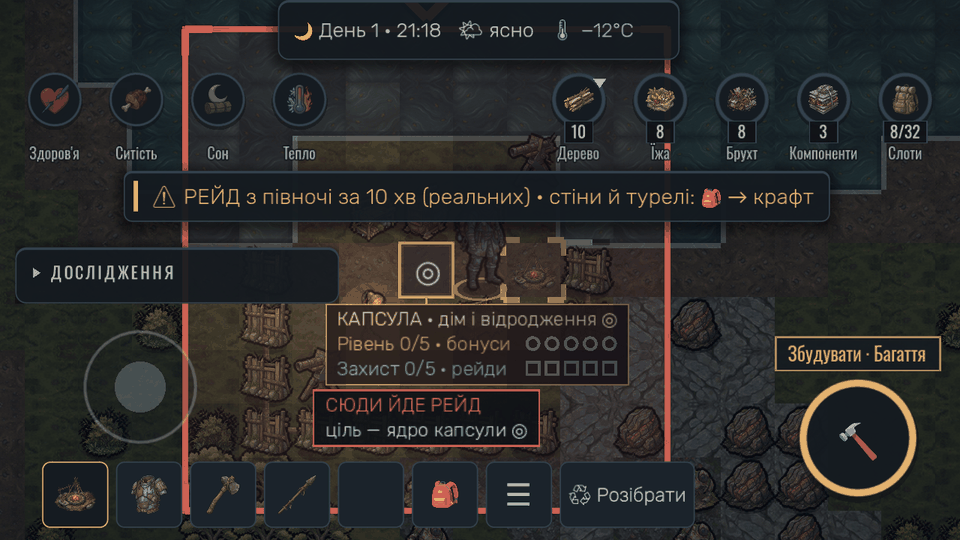
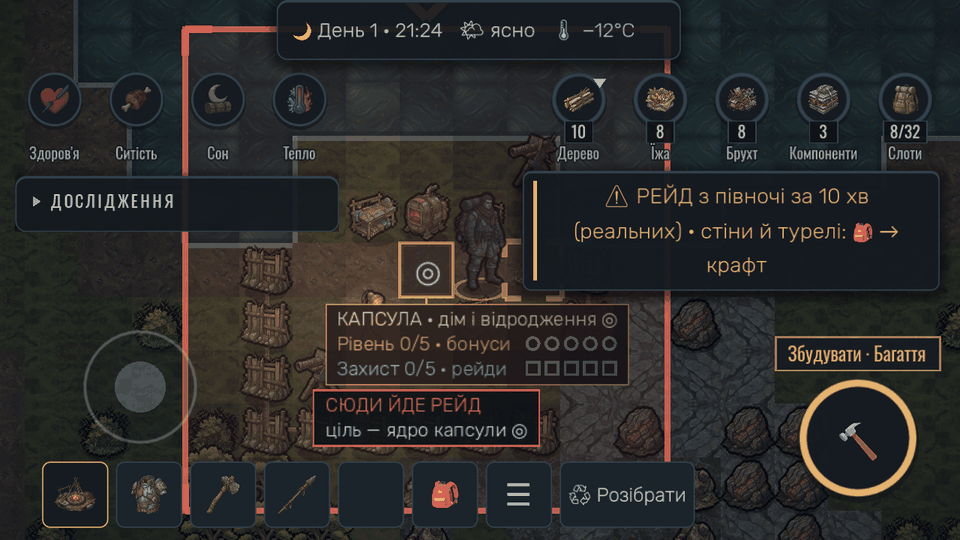
fix(ui): банер рейду на телефоні — у правій половині (не закриває героя), чіткіші підказки торби й удару; журнал G3 цикл 4
Claude-Session: https://claude.ai/code/session_01Xo1GdRrkAhvwBNsagnHsWq

diff --git a/docs/process/playtests/2026-11-18-g3-capsule.md b/docs/process/playtests/2026-11-18-g3-capsule.md
@@ -36,3 +36,19 @@
 - Банер рейду закриває ліву частину лічильників ресурсів (саме коли треба оцінити матеріали).
 - «Машина поруч»: порада «постав стіну», коли робот уже ламає стіну; не сказано, що робота можна бити.
 - Екран смерті: «мітка на мапі» не видна на самому екрані; текст довгий.
+
+## Цикл 4 (2026-11-19) — правки невирішеного, кадри `docs/ux/g3-2026-11-19/{before,after}`
+Кадри знято локально тим самим набором, що й CI (`shot touch scale=1.7 realtime …`).
+- «10 хв» — уже було «реального часу»; текст попередження скорочено до «⚠ РЕЙД з півночі за 10 хв (реальних) · стіни й турелі: 🎒 → крафт».
+- Банер рейду на телефоні — у правій половині ПІД лічильниками ресурсів (розпірка в правому доку, панель під банером не ховається). Перша спроба (по центру під медальйонами) закривала героя — знайшов незалежний читач, переставлено.
+- Правий док на телефоні закінчується над кнопкою дії (`RIGHT_THUMB_LIFT` 14 → 66); у панелі капсули «Бракує…» + «Прокачати» вгорі, рівні — під кнопкою (є й на табличці).
+- Підпис «ЗОНА КАПСУЛИ» більше не підіймається на верхні іконки: без тривоги, коли знизу нема місця, не малюється; у тривозі — нижче смуги HUD і правіше лівого дока.
+- Екран смерті: «Торба (N предм.) — на місці загибелі. Коли з'явишся, жовта мітка на мапі покаже, де вона.» + «З'явишся біля капсули, склад цілий. Навички — з нуля.»
+- «Машина поруч»: «Обери зброю в хотбарі — велика кнопка стане ⚔ ударом. Або сховайся за стіну з дверима.»
+- Статус банера (колір тривоги) — за «⚠ РЕЙД», а не за словом «НАБЛИЖАЄТЬСЯ» (інакше попередження фарбувалось у червоний контакту).
+
+### Лишилось відкритим (знайшли читачі циклу 4, поза цими правками)
+- Кадр «контакт» стадіює патрульного робота через хвилину після попередження «за 10 хв» — артефакт знімка (`early`), але читач читає це як брехню таймера.
+- «−7» лягає на табличку «ламає стіну»; паркан не читається як «стіна».
+- Права панель капсули закриває правий край таблички капсули.
+- «Торба (33 предм.)» проти «Слоти 8/32»; «дошок» немає в смузі ресурсів; біля потреб нема числа (смерть від холоду без попередження — кандидат FTUE, REQ-0012-52).
